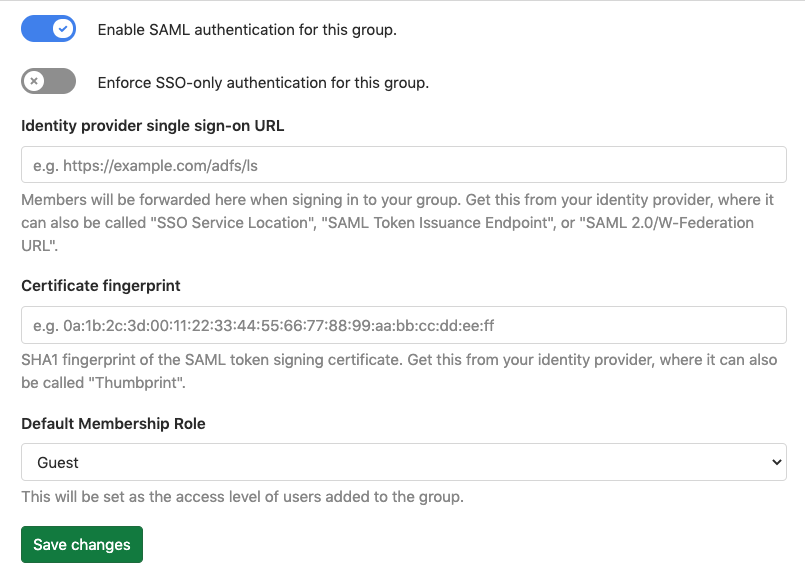
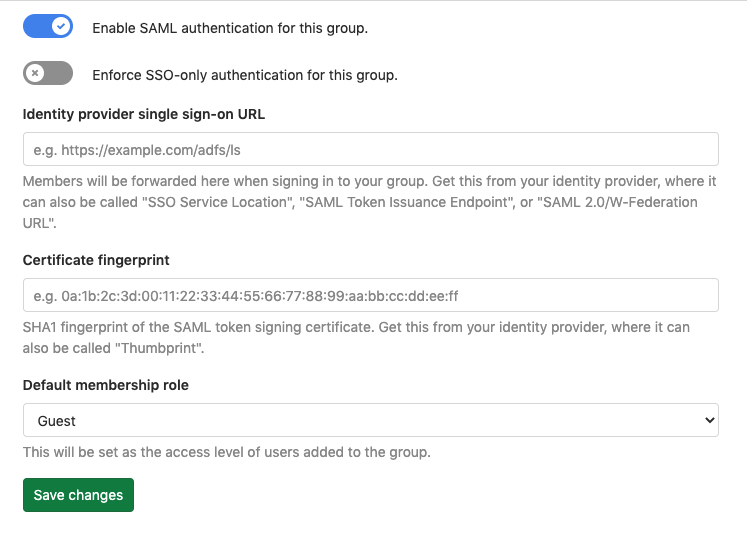
Address code review comments
This commit addresses code review comments

diff --git a/ee/spec/controllers/groups/omniauth_callbacks_controller_spec.rb b/ee/spec/controllers/groups/omniauth_callbacks_controller_spec.rb
@@ -153,12 +153,12 @@ RSpec.describe Groups::OmniauthCallbacksController do
           expect(group).to be_member(user)
         end
 
-        context 'access level' do
+        context 'when a default access level is specified in the SAML provider' do
           let!(:saml_provider) do
             create(:saml_provider, group: group, default_membership_role: Gitlab::Access::DEVELOPER)
           end
 
-          it 'sets the access level as per the `default_membership_role` set in saml_provider' do
+          it 'sets the access level of the member as per the specified `default_membership_role`' do
             post provider, params: { group_id: group }
 
             created_member = group.members.find_by(user: user)

diff --git a/doc/user/group/saml_sso/index.md b/doc/user/group/saml_sso/index.md
@@ -63,7 +63,7 @@ Once you've set up your identity provider to work with GitLab, you'll need to co
 1. Navigate to the group's **Settings > SAML SSO**.
 1. Find the SSO URL from your Identity Provider and enter it the **Identity provider single sign-on URL** field.
 1. Find and enter the fingerprint for the SAML token signing certificate in the **Certificate** field.
-1. Select the access level to be applied to newly added users in the **Default Membership Role** field. The default access level is 'Guest'.
+1. Select the access level to be applied to newly added users in the **Default membership role** field. The default access level is 'Guest'.
 1. Click the **Enable SAML authentication for this group** toggle switch.
 1. Click the **Save changes** button.
 
@@ -217,9 +217,9 @@ On subsequent visits, you should be able to go [sign in to GitLab.com with SAML]
 
 ### Role
 
-Starting from [GitLab 13.3](https://gitlab.com/gitlab-org/gitlab/-/issues/214523), group owners can set a 'Default membership role' while [configuring the SAML SSO for the group](#configuring-gitlab), which will be set as the access level of all users that will be added to the group. The default access level is 'Guest'.
+Starting from [GitLab 13.3](https://gitlab.com/gitlab-org/gitlab/-/issues/214523), group owners can set a 'Default membership role' other than 'Guest'. To do so, [configure the SAML SSO for the group](#configuring-gitlab). That role becomes the starting access level of all users added to the group.
 
-Existing members with appropriate privileges can promote or demote that new user, after they are added to the group.
+Existing members with appropriate privileges can promote or demote users, as needed.
 
 If a user is already a member of the group, linking the SAML identity does not change their role.
 
